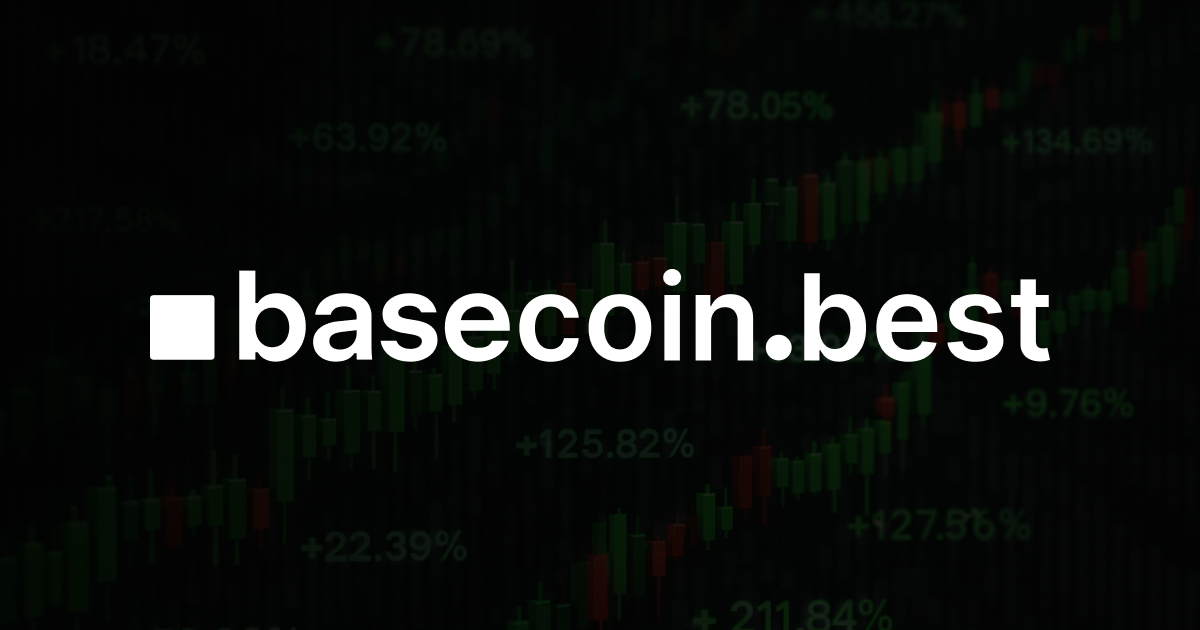
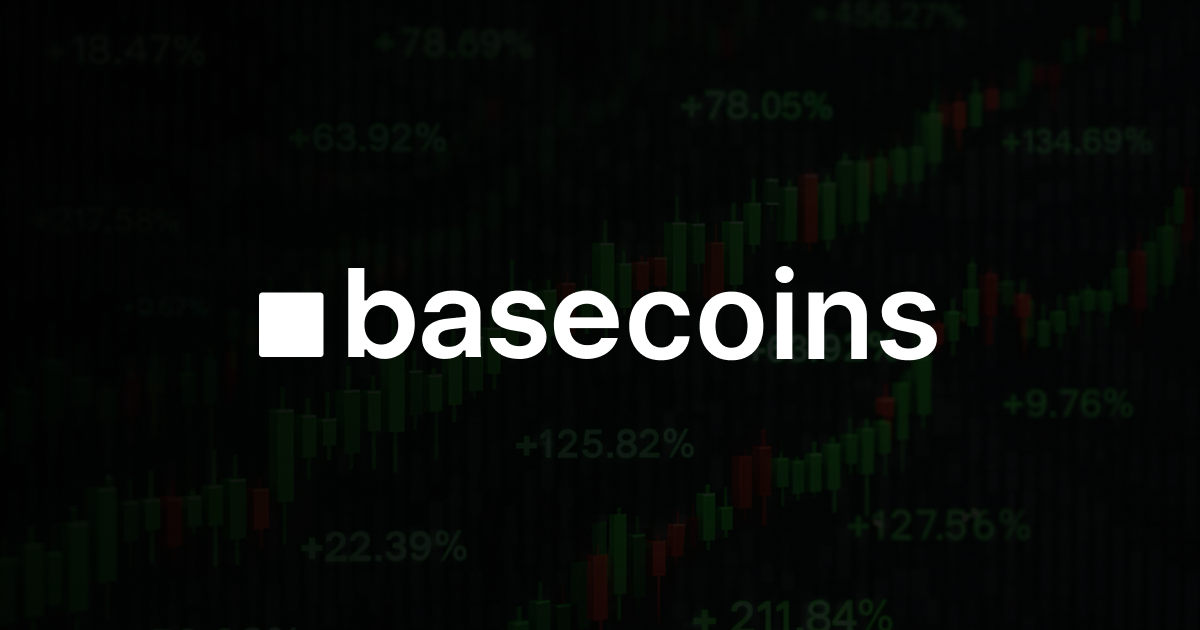
update

Changed region(s): [[0.1233, 0.4222, 0.8942, 0.573]]

diff --git a/public/index.html b/public/index.html
@@ -1044,25 +1044,17 @@
   <div class="header" id="header">
     <div class="title">
       <span class="base-logo" aria-label="basecoin.best" title="basecoin.best">
-        <svg class="hdr-site-logo" viewBox="0 0 3202 330" fill="none" xmlns="http://www.w3.org/2000/svg" aria-hidden="true">
+        <svg width="683" height="148" viewBox="0 0 683 148" fill="none" xmlns="http://www.w3.org/2000/svg" aria-hidden="true">
+          <g clip-path="url(#clip0_2574_20)">
+            <path d="M125.705 117.951C118.617 117.951 111.781 115.359 107.753 108.523H105.415V116.005H89.2979V27H105.415V59.3799H107.753C111.891 52.2912 119.626 49.5592 126.605 49.5592C144.017 49.5592 155.783 63.4836 155.783 83.0915C155.783 102.699 142.868 117.917 125.705 117.917V117.953V117.951ZM122.217 103.526C132.148 103.526 139.234 95.3942 139.234 83.7745C139.234 72.1548 132.002 64.0233 122.217 64.0233C112.433 64.0233 105.451 71.7585 105.451 83.7745C105.451 95.7905 112.54 103.526 122.217 103.526ZM185.572 117.951C173.196 117.951 163.122 110.468 163.122 98.1993C163.122 85.9304 174.202 79.0946 187.623 77.692L206.585 75.7498V72.152C206.585 66.612 202.051 62.7247 194.066 62.7247C186.08 62.7247 182.05 66.0695 180.647 71.1064H165.177C166.723 58.8375 176.906 49.5563 194.066 49.5563C211.225 49.5563 221.552 57.5445 221.552 73.1583V104.639C221.552 108.633 221.948 114.173 222.198 115.719V115.972H206.728C206.585 113.777 206.585 111.728 206.585 109.532H204.246C200.252 115.972 193.273 117.914 185.538 117.914L185.574 117.951H185.572ZM189.962 105.828C200.539 105.828 206.618 97.8396 206.618 89.7108V86.4728L192.407 88.1649C183.629 89.2077 179.382 91.7627 179.382 97.4461C179.382 103.129 183.773 105.828 189.959 105.828H189.962ZM260.298 117.951C244.035 117.951 232.415 109.819 230.617 97.0469H246.483C248.282 102.73 254.218 105.178 260.408 105.178C266.597 105.178 271.884 102.48 271.884 97.6962C271.884 92.9123 266.99 91.6165 260.264 90.4641L253.429 89.3117C240.513 87.1165 232.525 81.6833 232.525 70.1002C232.525 58.517 243.605 49.5929 258.969 49.5929C274.332 49.5929 283.866 56.572 286.565 68.6976H271.094C269.295 63.9137 264.511 62.0052 259.078 62.0052C253.645 62.0052 248.248 64.8469 248.248 68.841C248.248 72.835 251.593 74.2742 258.575 75.4238L265.411 76.5762C277.93 78.628 287.464 83.8082 287.464 96.3274C287.464 108.846 276.094 118.021 260.228 118.021L260.301 117.948L260.298 117.951ZM327.899 117.951C308.039 117.951 294.873 104.386 294.873 83.6284C294.873 62.8709 308.798 49.5563 328.046 49.5563C347.294 49.5563 359.779 64.5236 359.779 84.2748V87.1165H310.633C311.426 97.8367 318.908 104.133 327.939 104.133C336.97 104.133 339.955 101.541 342.15 97.0441H358.663C355.318 109.17 343.299 117.948 327.939 117.948H327.902L327.899 117.951ZM344.019 76.4328C342.723 67.7982 335.888 62.7613 327.902 62.7613C319.917 62.7613 312.432 67.6548 310.886 76.4328H344.058H344.022H344.019Z" fill="white"/>
+            <path d="M3.88445 116.045C1.29294 116.045 0 114.75 0 112.161V55.3864C0 52.7949 1.29575 51.502 3.88445 51.502H60.6559C63.2474 51.502 64.5404 52.7977 64.5404 55.3864V112.158C64.5404 114.75 63.2446 116.043 60.6559 116.043H3.88445V116.045Z" fill="white"/>
+          </g>
+          <path d="M402.085 119.3C395.442 119.3 389.738 117.841 384.972 114.924C380.236 112.007 376.582 107.978 374.011 102.837C371.47 97.6667 370.199 91.7169 370.199 84.9872C370.199 78.2287 371.499 72.2644 374.098 67.0945C376.697 61.8956 380.366 57.852 385.102 54.9638C389.868 52.0466 395.5 50.5881 401.999 50.5881C407.4 50.5881 412.18 51.5845 416.339 53.5774C420.527 55.5414 423.863 58.3286 426.347 61.9389C428.83 65.5204 430.246 69.7083 430.592 74.5028H415.602C414.996 71.2969 413.552 68.6252 411.27 66.4879C409.017 64.3217 405.999 63.2386 402.215 63.2386C399.009 63.2386 396.193 64.1051 393.767 65.8381C391.341 67.5421 389.449 69.9972 388.092 73.2031C386.763 76.4091 386.099 80.2505 386.099 84.7273C386.099 89.2618 386.763 93.161 388.092 96.4247C389.42 99.6596 391.283 102.158 393.68 103.92C396.107 105.653 398.951 106.519 402.215 106.519C404.526 106.519 406.591 106.086 408.411 105.219C410.259 104.324 411.804 103.039 413.046 101.364C414.288 99.6884 415.14 97.6522 415.602 95.255H430.592C430.217 99.9628 428.83 104.136 426.433 107.776C424.036 111.386 420.772 114.216 416.642 116.267C412.512 118.289 407.66 119.3 402.085 119.3ZM472.497 119.3C465.999 119.3 460.367 117.87 455.601 115.011C450.835 112.151 447.138 108.151 444.51 103.01C441.911 97.8688 440.611 91.8613 440.611 84.9872C440.611 78.1132 441.911 72.0911 444.51 66.9212C447.138 61.7512 450.835 57.7365 455.601 54.8771C460.367 52.0178 465.999 50.5881 472.497 50.5881C478.996 50.5881 484.628 52.0178 489.394 54.8771C494.159 57.7365 497.842 61.7512 500.441 66.9212C503.07 72.0911 504.384 78.1132 504.384 84.9872C504.384 91.8613 503.07 97.8688 500.441 103.01C497.842 108.151 494.159 112.151 489.394 115.011C484.628 117.87 478.996 119.3 472.497 119.3ZM472.584 106.736C476.108 106.736 479.054 105.768 481.422 103.833C483.79 101.869 485.552 99.2408 486.708 95.9482C487.892 92.6555 488.484 88.9875 488.484 84.9439C488.484 80.8714 487.892 77.1889 486.708 73.8963C485.552 70.5748 483.79 67.9321 481.422 65.968C479.054 64.004 476.108 63.022 472.584 63.022C468.974 63.022 465.97 64.004 463.573 65.968C461.204 67.9321 459.428 70.5748 458.244 73.8963C457.088 77.1889 456.511 80.8714 456.511 84.9439C456.511 88.9875 457.088 92.6555 458.244 95.9482C459.428 99.2408 461.204 101.869 463.573 103.833C465.97 105.768 468.974 106.736 472.584 106.736ZM517.695 118V51.4545H533.378V118H517.695ZM525.58 42.0099C523.096 42.0099 520.959 41.1868 519.168 39.5405C517.377 37.8653 516.482 35.8579 516.482 33.5185C516.482 31.1501 517.377 29.1428 519.168 27.4964C520.959 25.8213 523.096 24.9837 525.58 24.9837C528.093 24.9837 530.23 25.8213 531.992 27.4964C533.783 29.1428 534.678 31.1501 534.678 33.5185C534.678 35.8579 533.783 37.8653 531.992 39.5405C530.23 41.1868 528.093 42.0099 525.58 42.0099ZM565.189 79.0085V118H549.506V51.4545H564.496V62.7621H565.275C566.806 59.0362 569.247 56.0758 572.597 53.8807C575.976 51.6856 580.15 50.5881 585.118 50.5881C589.71 50.5881 593.71 51.5701 597.118 53.5341C600.555 55.4981 603.213 58.343 605.09 62.0689C606.996 65.7947 607.935 70.3149 607.906 75.6293V118H592.223V78.0554C592.223 73.6075 591.068 70.1271 588.757 67.6143C586.475 65.1016 583.313 63.8452 579.269 63.8452C576.525 63.8452 574.085 64.4517 571.947 65.6648C569.839 66.849 568.178 68.5675 566.965 70.8203C565.781 73.0732 565.189 75.8026 565.189 79.0085ZM676.444 69.044L662.148 70.6037C661.743 69.1596 661.036 67.8021 660.025 66.5312C659.043 65.2604 657.714 64.2351 656.039 63.4553C654.364 62.6754 652.313 62.2855 649.887 62.2855C646.623 62.2855 643.879 62.9931 641.655 64.4084C639.46 65.8236 638.377 67.6577 638.406 69.9105C638.377 71.8456 639.085 73.4197 640.529 74.6328C642.002 75.8459 644.428 76.8423 647.807 77.6222L659.158 80.0483C665.455 81.4058 670.134 83.5575 673.195 86.5035C676.286 89.4496 677.845 93.3054 677.874 98.071C677.845 102.259 676.618 105.956 674.192 109.162C671.794 112.339 668.458 114.823 664.184 116.614C659.909 118.404 654.999 119.3 649.454 119.3C641.309 119.3 634.752 117.596 629.785 114.188C624.817 110.75 621.856 105.97 620.903 99.8473L636.197 98.3743C636.89 101.378 638.363 103.645 640.616 105.176C642.868 106.707 645.8 107.472 649.41 107.472C653.136 107.472 656.126 106.707 658.378 105.176C660.66 103.645 661.801 101.754 661.801 99.5007C661.801 97.5945 661.064 96.0204 659.591 94.7784C658.147 93.5365 655.894 92.5833 652.833 91.919L641.482 89.5362C635.099 88.2076 630.377 85.9692 627.315 82.821C624.254 79.6439 622.737 75.6293 622.766 70.777C622.737 66.6757 623.849 63.1231 626.102 60.1193C628.384 57.0866 631.546 54.7472 635.59 53.1008C639.662 51.4257 644.356 50.5881 649.67 50.5881C657.469 50.5881 663.606 52.2488 668.083 55.5703C672.589 58.8918 675.376 63.383 676.444 69.044Z" fill="white"/>
           <defs>
-            <clipPath id="clip_header_logo">
-              <rect width="1280" height="323.84" fill="white" transform="translate(0 6)"/>
+            <clipPath id="clip0_2574_20">
+              <rect width="359.776" height="91.0236" fill="white" transform="translate(0 27)"/>
             </clipPath>
           </defs>
-          <g clip-path="url(#clip_header_logo)">
-            <path class="hdr-logo-word" d="M447.229 329.58C422.009 329.58 397.689 320.36 383.359 296.04H375.039V322.66H317.699V6H375.039V121.2H383.359C398.079 95.98 425.599 86.26 450.429 86.26C512.379 86.26 554.239 135.8 554.239 205.56C554.239 275.32 508.289 329.46 447.229 329.46V329.59V329.58ZM434.819 278.26C470.149 278.26 495.359 249.33 495.359 207.99C495.359 166.65 469.629 137.72 434.819 137.72C400.009 137.72 375.169 165.24 375.169 207.99C375.169 250.74 400.389 278.26 434.819 278.26ZM660.219 329.58C616.189 329.58 580.349 302.96 580.349 259.31C580.349 215.66 619.769 191.34 667.519 186.35L734.979 179.44V166.64C734.979 146.93 718.849 133.1 690.439 133.1C662.029 133.1 647.689 145 642.699 162.92H587.659C593.159 119.27 629.389 86.25 690.439 86.25C751.489 86.25 788.229 114.67 788.229 170.22V282.22C788.229 296.43 789.639 316.14 790.529 321.64V322.54H735.489C734.979 314.73 734.979 307.44 734.979 299.63H726.659C712.449 322.54 687.619 329.45 660.099 329.45L660.229 329.58H660.219ZM675.839 286.45C713.469 286.45 735.099 258.03 735.099 229.11V217.59L684.539 223.61C653.309 227.32 638.199 236.41 638.199 256.63C638.199 276.85 653.819 286.45 675.829 286.45H675.839ZM926.079 329.58C868.219 329.58 826.879 300.65 820.479 255.21H876.929C883.329 275.43 904.449 284.14 926.469 284.14C948.489 284.14 967.299 274.54 967.299 257.52C967.299 240.5 949.889 235.89 925.959 231.79L901.639 227.69C855.689 219.88 827.269 200.55 827.269 159.34C827.269 118.13 866.689 86.38 921.349 86.38C976.009 86.38 1009.93 111.21 1019.53 154.35H964.489C958.089 137.33 941.069 130.54 921.739 130.54C902.409 130.54 883.209 140.65 883.209 154.86C883.209 169.07 895.109 174.19 919.949 178.28L944.269 182.38C988.809 189.68 1022.73 208.11 1022.73 252.65C1022.73 297.19 982.279 329.83 925.829 329.83L926.089 329.57L926.079 329.58ZM1166.59 329.58C1095.93 329.58 1049.09 281.32 1049.09 207.47C1049.09 133.62 1098.63 86.25 1167.11 86.25C1235.59 86.25 1280.01 139.5 1280.01 209.77V219.88H1105.16C1107.98 258.02 1134.6 280.42 1166.73 280.42C1198.86 280.42 1209.48 271.2 1217.29 255.2H1276.04C1264.14 298.34 1221.38 329.57 1166.73 329.57H1166.6L1166.59 329.58ZM1223.94 181.87C1219.33 151.15 1195.01 133.23 1166.6 133.23C1138.19 133.23 1111.56 150.64 1106.06 181.87H1224.08H1223.95H1223.94Z"/>
-            <path class="hdr-logo-mark" d="M13.82 322.8C4.6 322.8 0 318.19 0 308.98V106.99C0 97.7699 4.61 93.1699 13.82 93.1699H215.8C225.02 93.1699 229.62 97.7799 229.62 106.99V308.97C229.62 318.19 225.01 322.79 215.8 322.79H13.82V322.8Z"/>
-          </g>
-          <path class="hdr-logo-word" d="M3197.74 92.6209V135.064H3063.89V92.6209H3197.74ZM3096.93 36.8379H3151.81V255.422C3151.81 262.799 3152.92 268.458 3155.14 272.4C3157.46 276.24 3160.5 278.867 3164.24 280.282C3167.97 281.697 3172.12 282.404 3176.67 282.404C3180.1 282.404 3183.23 282.152 3186.06 281.646C3188.99 281.141 3191.22 280.686 3192.73 280.282L3201.98 323.18C3199.05 324.191 3194.86 325.303 3189.4 326.515C3184.04 327.728 3177.47 328.435 3169.69 328.637C3155.95 329.042 3143.57 326.97 3132.55 322.422C3121.54 317.774 3112.8 310.599 3106.33 300.897C3099.96 291.196 3096.83 279.069 3096.93 264.517V36.8379Z"/>
-          <path class="hdr-logo-word" d="M3031.22 154.163L2981.2 159.62C2979.78 154.567 2977.31 149.817 2973.77 145.371C2970.34 140.924 2965.69 137.337 2959.83 134.608C2953.96 131.88 2946.79 130.516 2938.3 130.516C2926.88 130.516 2917.28 132.991 2909.5 137.943C2901.82 142.895 2898.03 149.312 2898.13 157.194C2898.03 163.965 2900.51 169.473 2905.56 173.717C2910.71 177.961 2919.2 181.448 2931.02 184.176L2970.74 192.665C2992.77 197.415 3009.14 204.943 3019.85 215.251C3030.67 225.559 3036.12 239.05 3036.22 255.724C3036.12 270.377 3031.83 283.312 3023.34 294.53C3014.95 305.646 3003.28 314.337 2988.32 320.602C2973.37 326.868 2956.19 330 2936.78 330C2908.29 330 2885.35 324.038 2867.97 312.113C2850.58 300.088 2840.23 283.363 2836.89 261.939L2890.4 256.785C2892.83 267.295 2897.98 275.228 2905.86 280.584C2913.74 285.94 2924 288.618 2936.63 288.618C2949.67 288.618 2960.13 285.94 2968.01 280.584C2975.99 275.228 2979.99 268.609 2979.99 260.726C2979.99 254.057 2977.41 248.549 2972.26 244.204C2967.2 239.858 2959.32 236.523 2948.61 234.199L2908.89 225.862C2886.56 221.213 2870.04 213.382 2859.33 202.367C2848.61 191.25 2843.31 177.204 2843.41 160.226C2843.31 145.876 2847.2 133.446 2855.08 122.936C2863.06 112.326 2874.13 104.14 2888.28 98.3798C2902.53 92.5185 2918.95 89.5879 2937.54 89.5879C2964.83 89.5879 2986.3 95.3986 3001.97 107.02C3017.73 118.642 3027.48 134.356 3031.22 154.163Z"/>
-          <path class="hdr-logo-word" d="M2697.24 330C2673.9 330 2653.74 325.15 2636.76 315.448C2619.88 305.646 2606.9 291.801 2597.8 273.914C2588.71 255.926 2584.16 234.755 2584.16 210.4C2584.16 186.45 2588.71 165.431 2597.8 147.341C2607 129.151 2619.83 115.004 2636.31 104.898C2652.78 94.6912 2672.13 89.5879 2694.36 89.5879C2708.71 89.5879 2722.25 91.9122 2734.99 96.5608C2747.82 101.108 2759.14 108.182 2768.94 117.783C2778.84 127.383 2786.63 139.611 2792.29 154.466C2797.94 169.22 2800.77 186.804 2800.77 207.217V224.043H2609.93V187.057H2748.17C2748.07 176.547 2745.8 167.199 2741.35 159.013C2736.91 150.727 2730.69 144.209 2722.71 139.459C2714.83 134.709 2705.63 132.335 2695.12 132.335C2683.9 132.335 2674.05 135.063 2665.56 140.52C2657.07 145.876 2650.45 152.95 2645.7 161.742C2641.05 170.433 2638.68 179.983 2638.58 190.391V222.679C2638.58 236.22 2641.05 247.842 2646.01 257.543C2650.96 267.143 2657.88 274.521 2666.77 279.674C2675.67 284.727 2686.08 287.254 2698 287.254C2705.98 287.254 2713.21 286.142 2719.68 283.919C2726.14 281.594 2731.75 278.209 2736.5 273.763C2741.25 269.316 2744.84 263.809 2747.26 257.24L2798.5 263C2795.27 276.542 2789.1 288.365 2780.01 298.471C2771.01 308.475 2759.49 316.257 2745.45 321.815C2731.4 327.272 2715.33 330 2697.24 330Z"/>
-          <path class="hdr-logo-word" d="M2327.72 325.45V15.0059H2382.59V131.119H2384.87C2387.7 125.46 2391.69 119.447 2396.84 113.081C2401.99 106.613 2408.97 101.106 2417.76 96.5581C2426.55 91.9096 2437.77 89.5853 2451.41 89.5853C2469.4 89.5853 2485.62 94.1833 2500.07 103.379C2514.62 112.474 2526.14 125.965 2534.63 143.852C2543.22 161.638 2547.52 183.466 2547.52 209.337C2547.52 234.904 2543.32 256.631 2534.93 274.518C2526.55 292.405 2515.13 306.047 2500.68 315.446C2486.23 324.844 2469.85 329.543 2451.56 329.543C2438.22 329.543 2427.16 327.32 2418.37 322.873C2409.57 318.427 2402.5 313.071 2397.14 306.805C2391.89 300.439 2387.8 294.426 2384.87 288.767H2381.68V325.45H2327.72ZM2381.53 209.034C2381.53 224.091 2383.65 237.279 2387.9 248.597C2392.24 259.915 2398.46 268.758 2406.54 275.124C2414.73 281.39 2424.63 284.522 2436.25 284.522C2448.38 284.522 2458.54 281.289 2466.72 274.821C2474.91 268.252 2481.07 259.309 2485.21 247.991C2489.46 236.571 2491.58 223.586 2491.58 209.034C2491.58 194.583 2489.51 181.748 2485.37 170.531C2481.22 159.314 2475.06 150.522 2466.87 144.156C2458.69 137.789 2448.48 134.606 2436.25 134.606C2424.53 134.606 2414.58 137.688 2406.39 143.852C2398.21 150.017 2391.99 158.657 2387.75 169.773C2383.6 180.889 2381.53 193.976 2381.53 209.034Z"/>
-          <path class="hdr-logo-mark" d="M2237 325C2224.32 325 2213.44 320.568 2204.38 311.703C2195.32 302.839 2190.86 292.035 2191 279.292C2190.86 266.826 2195.32 256.161 2204.38 247.297C2213.44 238.432 2224.32 234 2237 234C2249.27 234 2259.93 238.432 2268.99 247.297C2278.19 256.161 2282.86 266.826 2283 279.292C2282.86 287.741 2280.63 295.428 2276.31 302.354C2272.13 309.279 2266.55 314.82 2259.58 318.975C2252.75 322.992 2245.23 325 2237 325Z"/>
-          <path class="hdr-logo-word" d="M1996.24 189.027V325.453H1941.37V92.6196H1993.82V132.183H1996.55C2001.9 119.147 2010.44 108.789 2022.16 101.108C2033.99 93.428 2048.59 89.5879 2065.97 89.5879C2082.04 89.5879 2096.04 93.0238 2107.96 99.8956C2119.99 106.767 2129.28 116.721 2135.85 129.758C2142.52 142.794 2145.81 158.609 2145.7 177.204V325.453H2090.83V185.692C2090.83 170.13 2086.79 157.952 2078.7 149.16C2070.72 140.369 2059.66 135.973 2045.51 135.973C2035.91 135.973 2027.37 138.095 2019.89 142.339C2012.51 146.482 2006.7 152.495 2002.46 160.378C1998.31 168.26 1996.24 177.81 1996.24 189.027Z"/>
-          <path class="hdr-logo-word" d="M1830.07 325.451V92.6179H1884.94V325.451H1830.07ZM1857.65 59.5726C1848.96 59.5726 1841.49 56.6925 1835.22 50.9323C1828.96 45.071 1825.82 38.0476 1825.82 29.8621C1825.82 21.5755 1828.96 14.5521 1835.22 8.79187C1841.49 2.93062 1848.96 0 1857.65 0C1866.45 0 1873.92 2.93062 1880.09 8.79187C1886.35 14.5521 1889.49 21.5755 1889.49 29.8621C1889.49 38.0476 1886.35 45.071 1880.09 50.9323C1873.92 56.6925 1866.45 59.5726 1857.65 59.5726Z"/>
-          <path class="hdr-logo-word" d="M1671.93 330C1649.19 330 1629.49 324.998 1612.81 314.994C1596.14 304.989 1583.2 290.993 1574.01 273.005C1564.91 255.017 1560.36 233.997 1560.36 209.946C1560.36 185.894 1564.91 164.824 1574.01 146.735C1583.2 128.646 1596.14 114.599 1612.81 104.595C1629.49 94.5902 1649.19 89.5879 1671.93 89.5879C1694.67 89.5879 1714.37 94.5902 1731.05 104.595C1747.72 114.599 1760.61 128.646 1769.7 146.735C1778.9 164.824 1783.5 185.894 1783.5 209.946C1783.5 233.997 1778.9 255.017 1769.7 273.005C1760.61 290.993 1747.72 304.989 1731.05 314.994C1714.37 324.998 1694.67 330 1671.93 330ZM1672.23 286.041C1684.56 286.041 1694.87 282.656 1703.16 275.885C1711.44 269.013 1717.61 259.817 1721.65 248.296C1725.79 236.776 1727.86 223.942 1727.86 209.794C1727.86 195.545 1725.79 182.661 1721.65 171.14C1717.61 159.519 1711.44 150.272 1703.16 143.4C1694.87 136.528 1684.56 133.093 1672.23 133.093C1659.6 133.093 1649.09 136.528 1640.7 143.4C1632.42 150.272 1626.2 159.519 1622.06 171.14C1618.02 182.661 1615.99 195.545 1615.99 209.794C1615.99 223.942 1618.02 236.776 1622.06 248.296C1626.2 259.817 1632.42 269.013 1640.7 275.885C1649.09 282.656 1659.6 286.041 1672.23 286.041Z"/>
-          <path class="hdr-logo-word" d="M1425.57 330C1402.32 330 1382.36 324.897 1365.69 314.69C1349.12 304.484 1336.33 290.386 1327.34 272.398C1318.45 254.309 1314 233.492 1314 209.946C1314 186.299 1318.55 165.431 1327.64 147.341C1336.74 129.151 1349.57 115.004 1366.14 104.898C1382.82 94.6912 1402.53 89.5879 1425.26 89.5879C1444.16 89.5879 1460.89 93.0743 1475.44 100.047C1490.09 106.919 1501.76 116.671 1510.45 129.303C1519.14 141.834 1524.1 156.487 1525.31 173.262H1472.86C1470.74 162.045 1465.69 152.697 1457.7 145.219C1449.82 137.64 1439.26 133.85 1426.02 133.85C1414.8 133.85 1404.95 136.882 1396.46 142.946C1387.97 148.908 1381.35 157.498 1376.6 168.715C1371.96 179.932 1369.63 193.373 1369.63 209.036C1369.63 224.902 1371.96 238.545 1376.6 249.964C1381.25 261.282 1387.77 270.024 1396.16 276.188C1404.65 282.251 1414.6 285.283 1426.02 285.283C1434.11 285.283 1441.33 283.767 1447.7 280.736C1454.16 277.603 1459.57 273.106 1463.92 267.245C1468.26 261.383 1471.24 254.259 1472.86 245.871H1525.31C1523.99 262.343 1519.14 276.946 1510.76 289.679C1502.37 302.311 1490.95 312.214 1476.5 319.389C1462.05 326.463 1445.07 330 1425.57 330Z"/>
         </svg>
       </span>
       <div class="title-text">#TRENDING</div>
